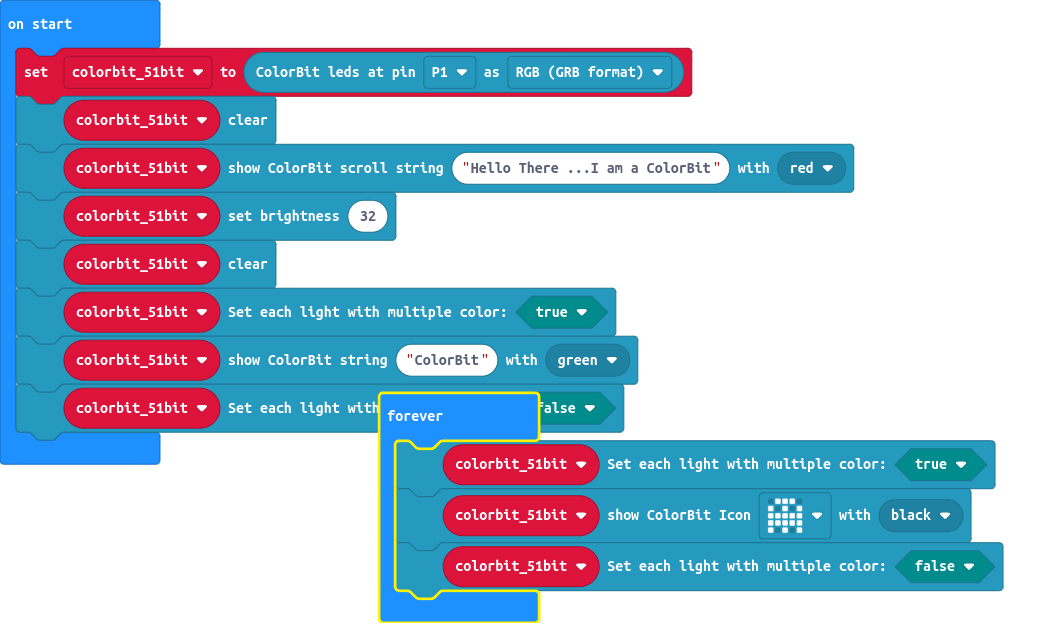
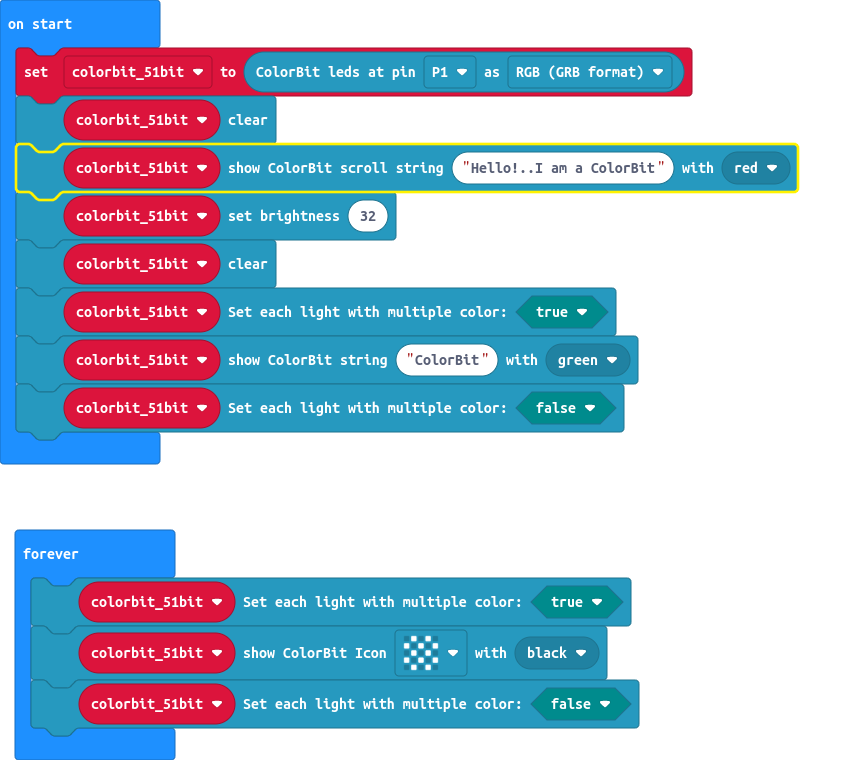
Update main.blocks, main.ts

diff --git a/main.ts b/main.ts
@@ -1,16 +1,13 @@
 let colorbit_51bit = colorbit.initColorBit(DigitalPin.P1, BitColorMode.RGB)
 colorbit_51bit.clear()
-colorbit_51bit.showScrollStringColor("Hello!...I am a ColorBit", colorbit.colors(BitColors.Orange))
+colorbit_51bit.showScrollStringColor("Hello!..I am a ColorBit", colorbit.colors(BitColors.Red))
 colorbit_51bit.setBrightness(32)
 colorbit_51bit.clear()
 colorbit_51bit.setMultiColor(true)
-colorbit_51bit.showStringColor("ColorBit", colorbit.colors(BitColors.White))
+colorbit_51bit.showStringColor("ColorBit", colorbit.colors(BitColors.Green))
 colorbit_51bit.setMultiColor(false)
 basic.forever(function () {
-    colorbit_51bit.setBrightness(24)
-    basic.pause(100)
     colorbit_51bit.setMultiColor(true)
-    colorbit_51bit.showColorIcon(ColorIcon.Heart, colorbit.colors(BitColors.Black))
+    colorbit_51bit.showColorIcon(ColorIcon.Chessboard, colorbit.colors(BitColors.Black))
     colorbit_51bit.setMultiColor(false)
-    basic.pause(200)
 })
